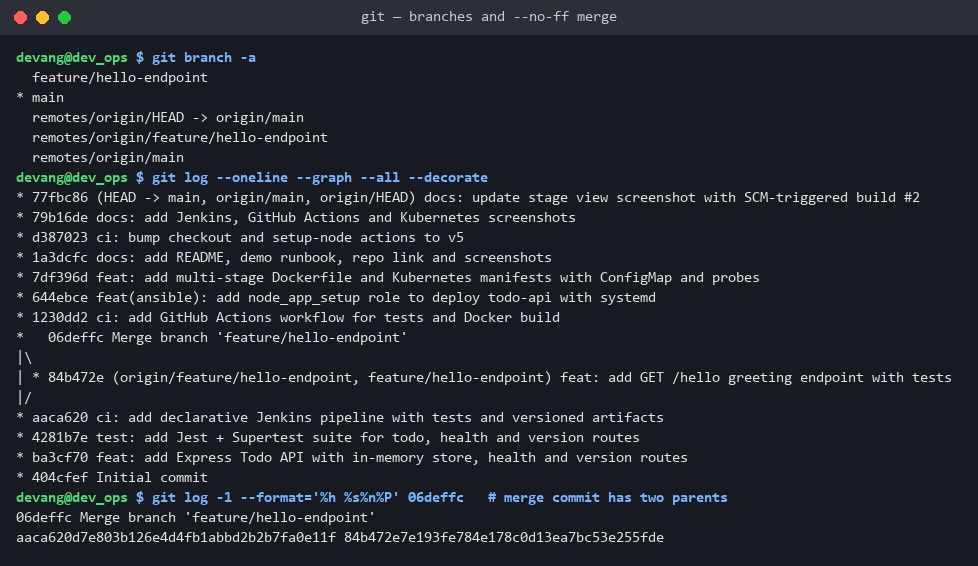
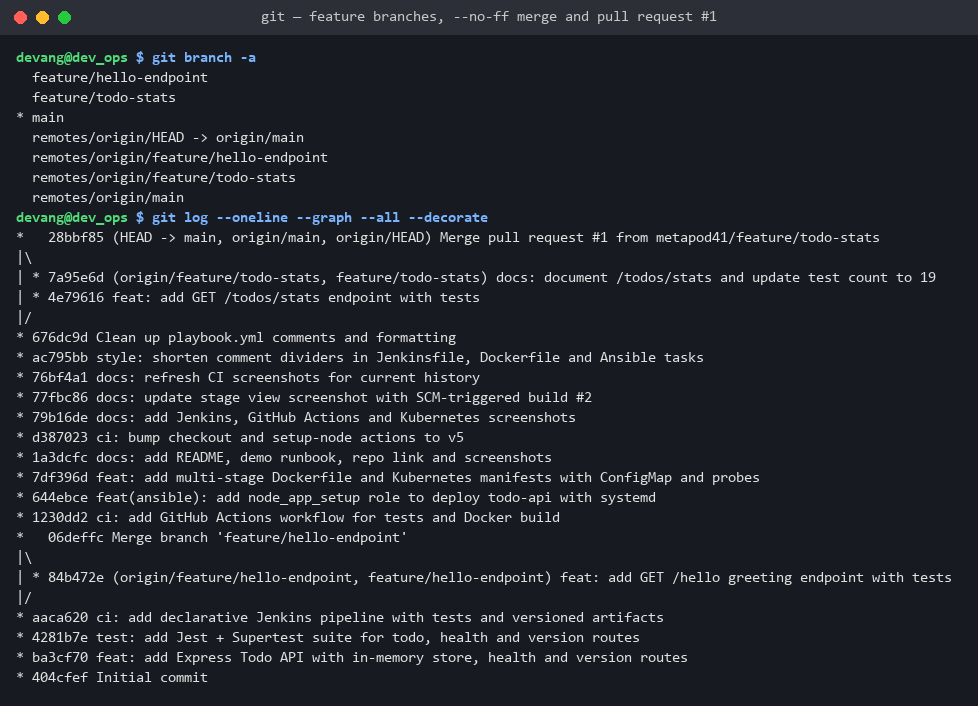
docs: add pull request workflow and screenshots

Changed region(s): [[0.0, 0.03, 0.9816, 0.9912], [0.2761, 0.0, 0.7362, 0.0601], [0.6442, 0.3905, 0.9509, 0.4205]]

diff --git a/README.md b/README.md
@@ -115,6 +115,7 @@ npm run dev      # auto-restart on file changes (node --watch)
 ### Git workflow
 - `main`: stable branch. Jenkins builds this one.
 - `feature/hello-endpoint`: the `GET /hello` endpoint and its tests were built here, then merged into `main` with `git merge --no-ff`, so the merge commit shows in history.
+- `feature/todo-stats`: the `GET /todos/stats` endpoint was merged through **pull request #1** on GitHub. GitHub Actions ran on the PR (2 checks passed) before it was merged into `main`.
 - Check the history with `git log --oneline --graph --all`.
 
 ### Jenkins setup
@@ -214,13 +215,15 @@ Environment variables are only read when a pod starts, so a restart is needed af
 
 | # | What it shows | File |
 |---|---|---|
-| C1-1 | Git history with both branches and the `--no-ff` merge (`git log --oneline --graph --all`) | `screenshots/c1-1-git-history.png` |
+| C1-1 | Git history: both feature branches, the `--no-ff` merge and the PR #1 merge (`git log --oneline --graph --all`) | `screenshots/c1-1-git-history.png` |
 | C1-2 | Jenkins job configuration (Pipeline from SCM, Poll SCM) | `screenshots/c1-2-jenkins-config.png` |
 | C1-3 | Jenkins console output of a successful build | `screenshots/c1-3-console-output.png` |
 | C1-3b | Jenkins Stage View: every stage green | `screenshots/c1-3b-stage-view.png` |
 | C1-4 | Archived artifact `todo-api-<n>.tar.gz` on the build page | `screenshots/c1-4-artifact.png` |
 | C1-5 | Tests passing (Jenkins Test stage or `npm test`) | `screenshots/c1-5-tests-passing.png` |
 | C1-6 | GitHub Actions run (green) | `screenshots/c1-6-actions-run.png` |
+| C1-7 | Pull request #1 (`feature/todo-stats` → `main`): merged, 2 checks passed | `screenshots/c1-7-pull-request.png` |
+| C1-7b | Pull request #1: files changed (diff) | `screenshots/c1-7b-pr-files.png` |
 | C2-1 | Ansible playbook run with `ok/changed` recap | `screenshots/c2-1-ansible-run.png` |
 | C2-2 | `docker build` output and `docker images` | `screenshots/c2-2-docker-build.png` |
 | C2-3 | `kubectl get pods` before scaling (3 pods) | `screenshots/c2-3-pods-before-scale.png` |
